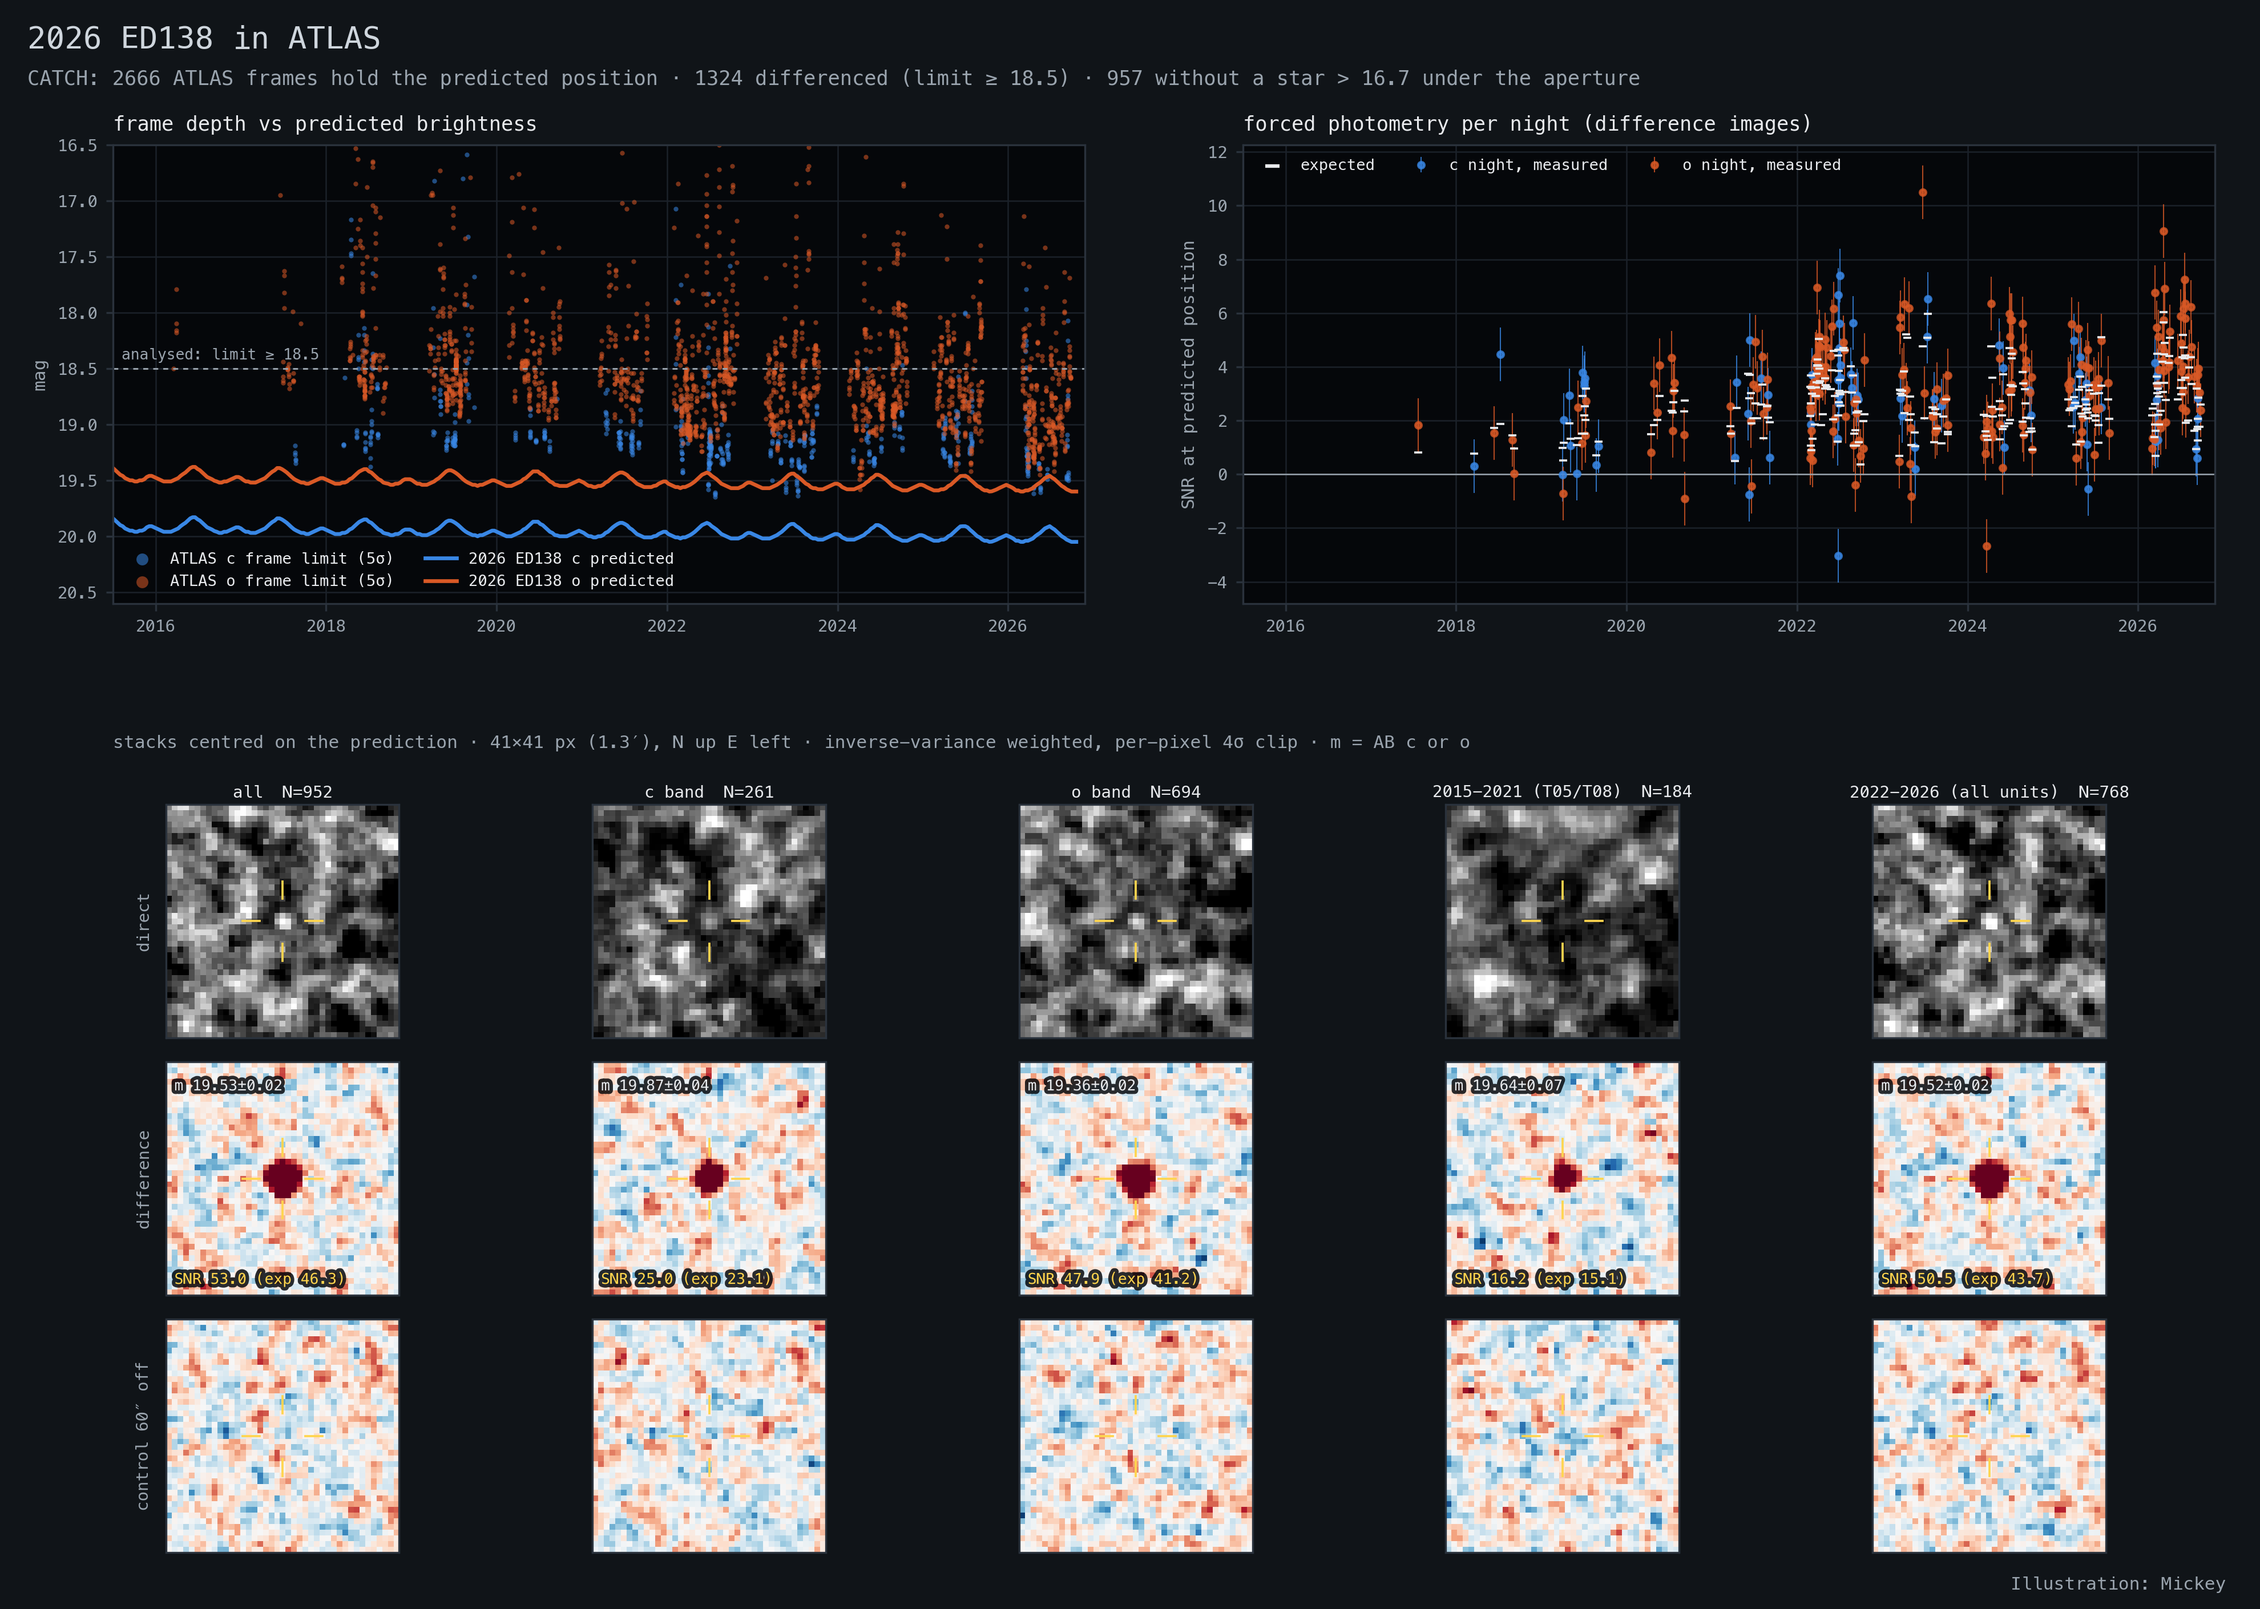
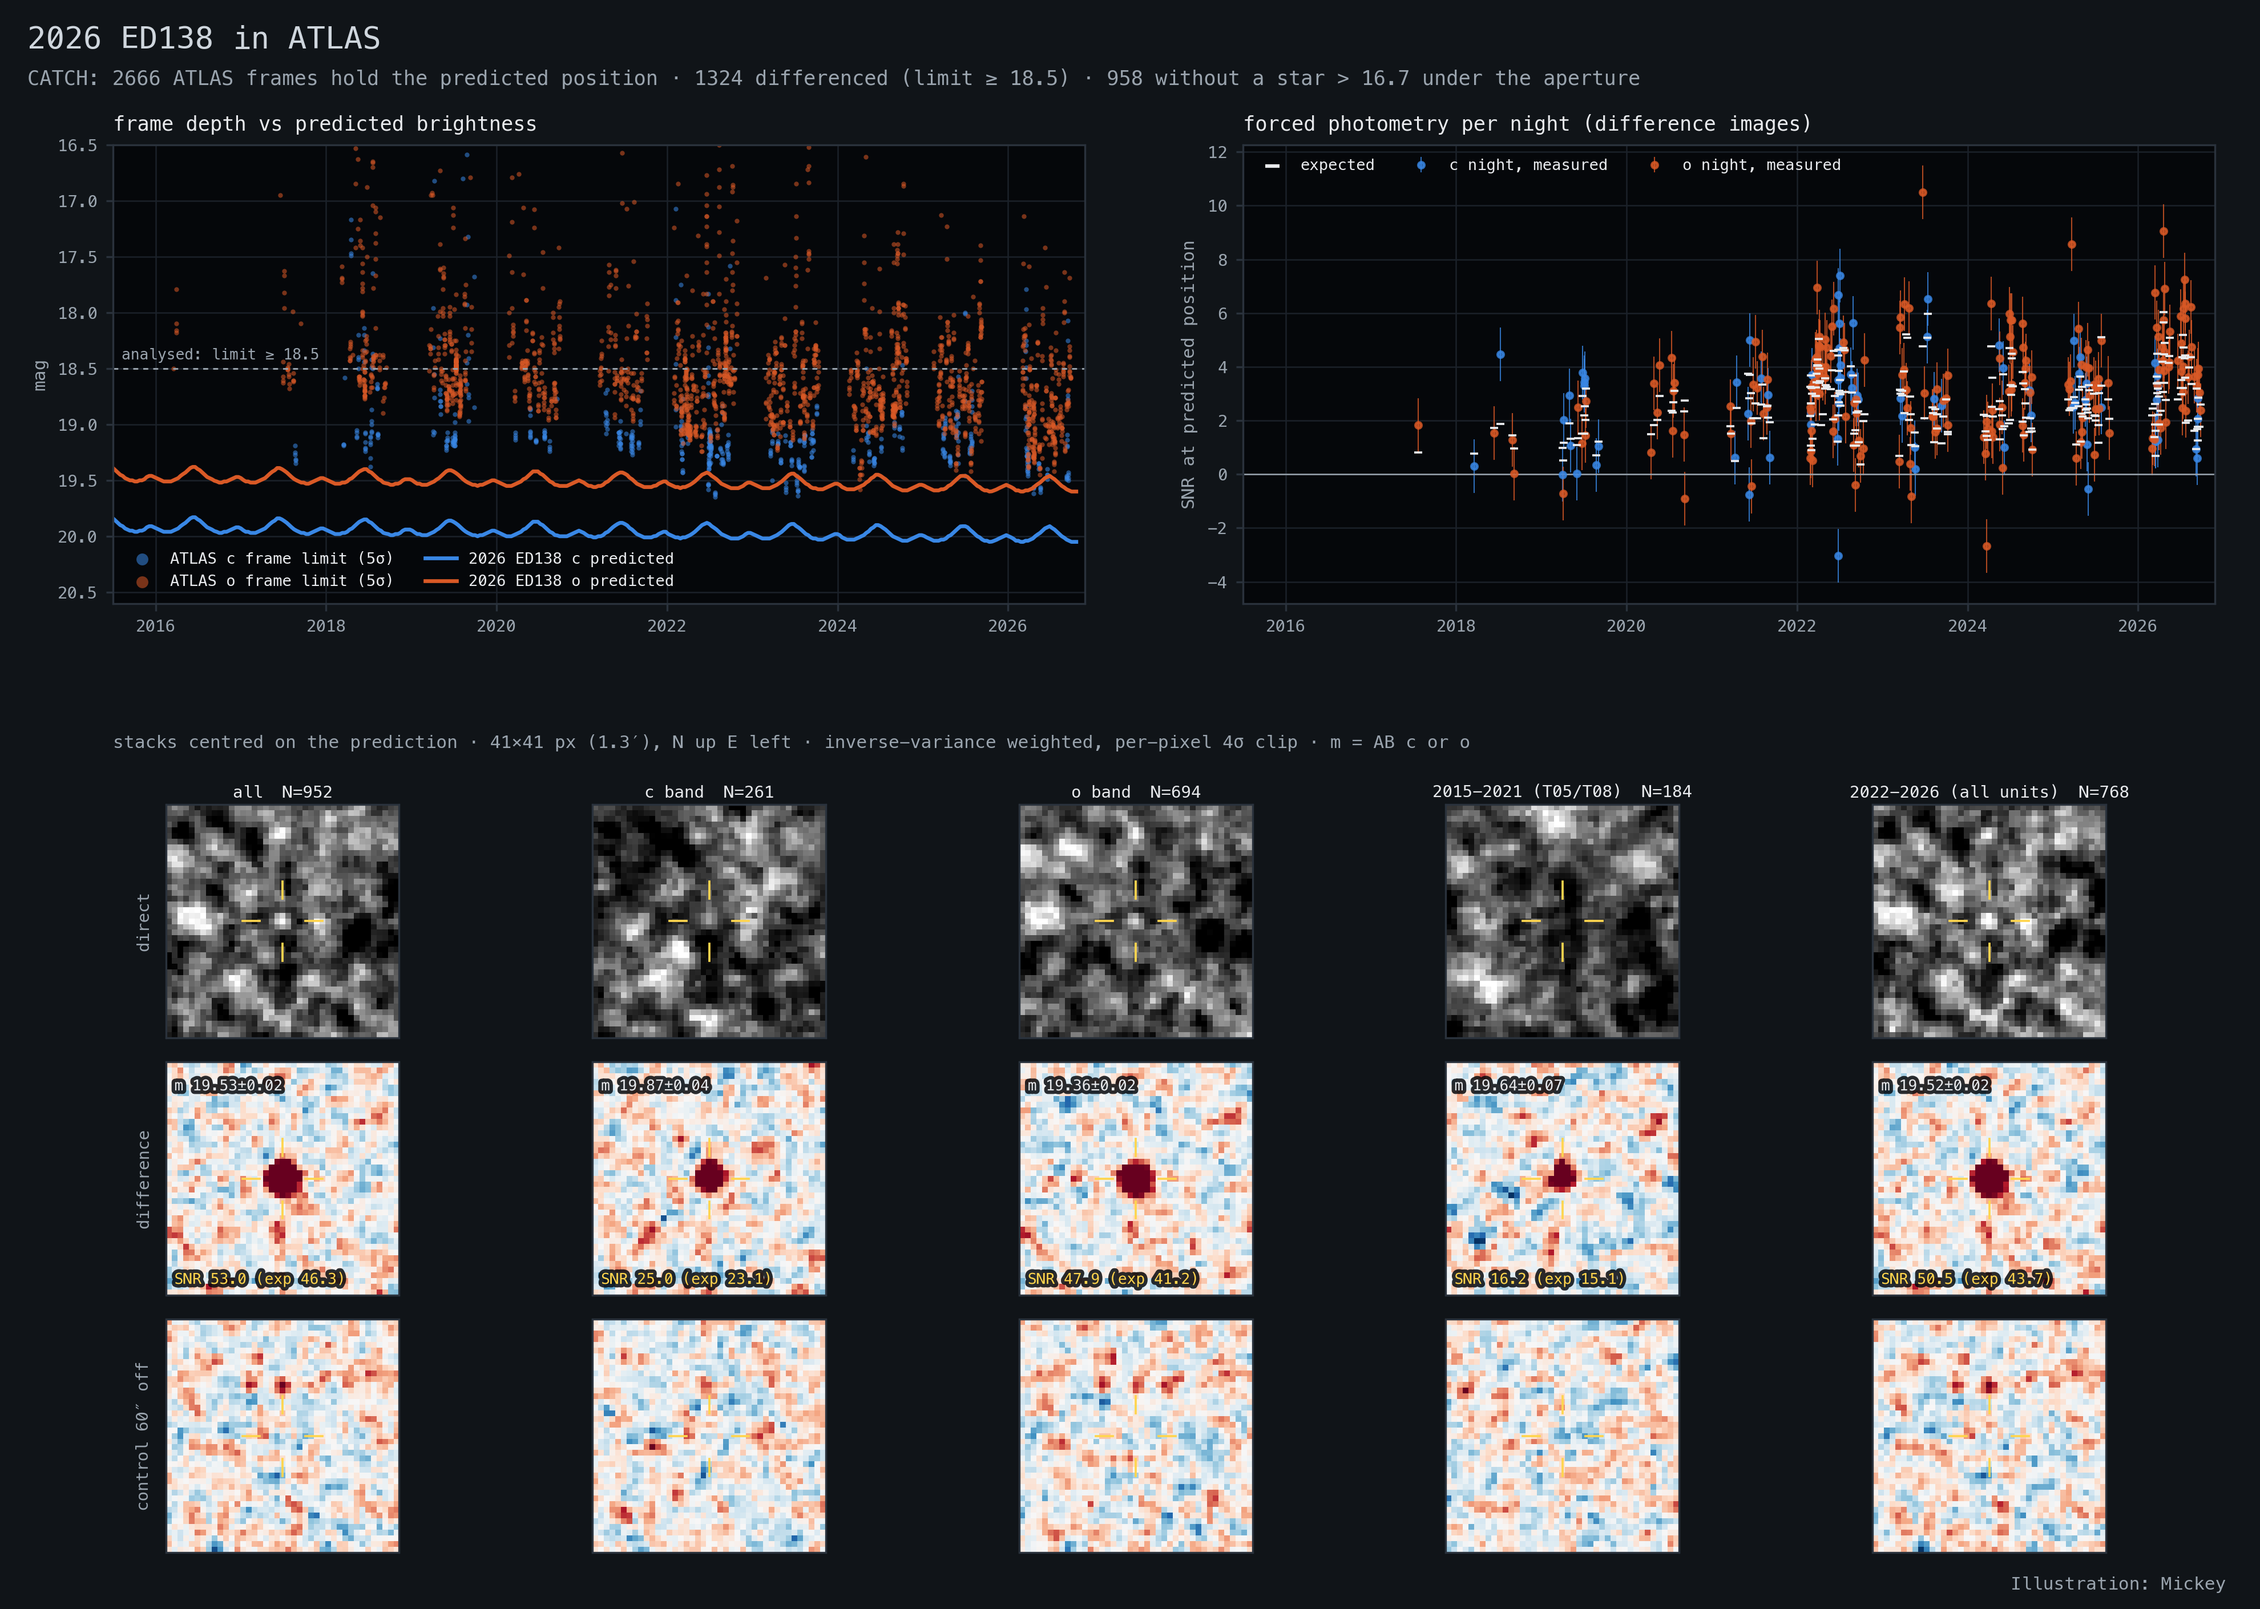
Add ATLAS per-season stack figure; fix stack orientation and centroid claim
ATLAS frames come in two orientations ~180 deg apart; stamps are now
resampled to a north-up sky grid before stacking. Photometry is unchanged;
the all-data stack centroid is -0.11", +0.20" from the ephemeris (was
reported as within 0.1"). New figure: per-season direct/difference/control
stacks and single-night O-C.

diff --git a/README.md b/README.md
@@ -50,12 +50,20 @@ in a top-down and an edge-on view.
 single-frame ATLAS limit (median 18.7). CATCH lists 2666 ATLAS frames from
 2016–2026 that contain its predicted position. 952 of them were differenced
 against other-night templates and stacked on the predicted motion. Together
-they detect it at SNR 53, with the stack centroid within 0.1″ of the
-prediction. It is detected in every season from 2019 to 2026, and 37 single
-nights reach SNR ≥ 5. The controls 60″ away are flat. Measured
-magnitudes: c = 19.87 ± 0.04, o = 19.36 ± 0.02 (AB, statistical errors only).
+they detect it at SNR 53, with the stack centroid within 0.23″ of the
+prediction. It is detected in every season from 2019 to 2026, and the
+controls 60″ away are flat. Measured magnitudes: c = 19.87 ± 0.04,
+o = 19.36 ± 0.02 (AB, statistical errors only).
 
 ![ATLAS](figures/2026ED138_atlas.png)
+
+**ATLAS per-season stacks and astrometry.** Each column is one season's
+direct, difference and control stack. Below them are the O−C of 20 clean
+single-night shift-and-stack positions (2022–2026, M22 and W68) against Bill
+Gray's orbit: rms 0.6–0.7″, mean +0.07″, −0.04″ ± 0.13″. These positions add
+nothing to the orbit and have not been submitted to the MPC.
+
+![ATLAS seasons](figures/2026ED138_atlas_seasons.png)
 
 ## Credits
 
